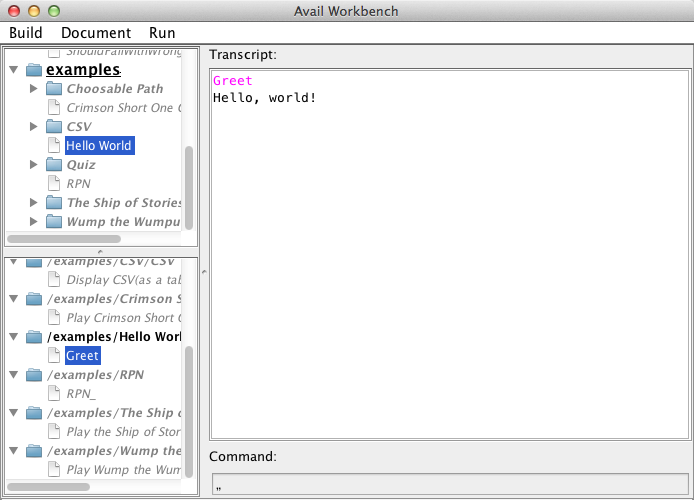
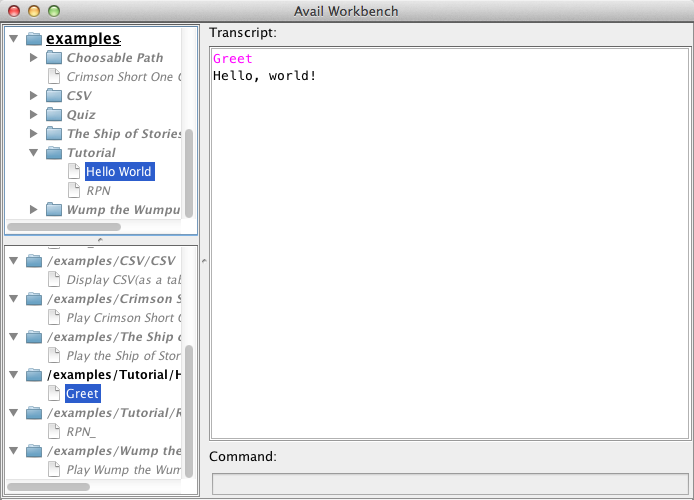
- Added a new tutorial, "Guess the Number". - Numerous updates and corrections.

Changed region(s): [[0.0, 0.03, 1.0, 0.54], [0.0605, 0.66, 0.2723, 0.81], [0.0908, 0.81, 0.2723, 0.87]]

diff --git a/about-avail/documentation/type-system/types-string.html b/about-avail/documentation/type-system/types-string.html
@@ -36,19 +36,19 @@ Like <a href="./types-extended-integer.html">integer</a> and <a href="./types-do
 When the escaped character is reverse solidus or quotation mark, then its special meaning as a metacharacter is disabled. So the string <code>"\\"</code> has a size of <code>1</code> and its only character is a reverse solidus, and the string <code>"\"Hello, Alice, this is Bob.\""</code> has a size of <code>28</code> and its first and last characters are quotation marks.
 </li>
 <li>
-When the escaped character is <code>t</code>, then the intended character is <em>character tabulation</em> <code class="unicode">(U+0009)</code>, also called <em>horizontal tab</em>. So the string <code>"\tIndented"</code> has a size of <code>9</code> and its first character is character tabulation.
+When the escaped character is <code>t</code> <code class="unicode">(U+0074)</code>, then the intended character is <em>character tabulation</em> <code class="unicode">(U+0009)</code>, also called <em>horizontal tab</em>. So the string <code>"\tIndented"</code> has a size of <code>9</code> and its first character is character tabulation.
 </li>
 <li>
-When the escaped character is <code>n</code>, then the intended character is <em>line feed</em> <code class="unicode">(U+000A)</code>. So the string <code>"Hello, world!\n"</code> has a size of <code>14</code> and its last character is a line feed.
+When the escaped character is <code>n</code> <code class="unicode">(U+006E)</code>, then the intended character is <em>line feed</em> <code class="unicode">(U+000A)</code>. So the string <code>"Hello, world!\n"</code> has a size of <code>14</code> and its last character is a line feed.
 </li>
 <li>
-When the escaped character is <code>r</code>, then the intended character is <em>carriage return</em> <code class="unicode">(U+000D)</code>. So the string <code>"Hello, world!\r"</code> has a size of <code>14</code> and its last character is a carriage return.
+When the escaped character is <code>r</code> <code class="unicode">(U+0072)</code>, then the intended character is <em>carriage return</em> <code class="unicode">(U+000D)</code>. So the string <code>"Hello, world!\r"</code> has a size of <code>14</code> and its last character is a carriage return.
 </li>
 <li>
-When the escaped character is <em>left parenthesis</em>, then the compiler expects a sequence of comma-separated hexadecimal numerals and finally a <em>right parenthesis</em>. Each hexadecimal numeral must denote an integral value from <code>0</code> to <code>10FFFF<sub>16</sub></code> (<code>1114111<sub>10</sub></code>); the case of the hexadecimal digits <code>A</code> through <code>F</code> does not matter. Each number represents the character associated with the Unicode code point of the same value. The construct as a whole then denotes a sequence of characters. So <code>"\(66, 6E, 6F, 72, 64, 21)!"</code> is the same string as <code>"fnord!!"</code> Because the Avail compiler is able to handle Unicode characters natively, there is scarcely need to use this facility outside of embedding invisible characters, such as control characters or special whitespace, into a string literal. In Avail, <code>"はじめまして。私の名前はスミス・トッドです。"</code> is a perfectly reasonable string literal — at least for the author!
+When the escaped character is <em>left parenthesis</em> <code>(</code> <code class="unicode">(U+0028)</code>, then the compiler expects a sequence of hexadecimal numerals separated by <em>commas</em> <code>,</code> <code class="unicode">(U+002C)</code> and finally a <em>right parenthesis</em> <code>)</code> <code class="unicode">(U+0029)</code>. Each hexadecimal numeral must denote an integral value from <code>0</code> to <code>10FFFF<sub>16</sub></code> (<code>1114111<sub>10</sub></code>); the case of the hexadecimal digits <code>A</code> through <code>F</code> does not matter. Each number represents the character associated with the Unicode code point of the same value. The construct as a whole then denotes a sequence of characters. So <code>"\(66, 6E, 6F, 72, 64, 21)!"</code> is the same string as <code>"fnord!!"</code> Because the Avail compiler is able to handle Unicode characters natively, there is scarcely need to use this facility outside of embedding invisible characters, such as control characters or special whitespace, into a string literal. In Avail, <code>"はじめまして。「スミス・トッド」と申します。"</code> is a perfectly reasonable string literal — at least for the author!
 </li>
 <li>
-When the escaped character is <em>line feed</em>, then the compiler elides the line feed altogether. This permits a string literal to span multiple lines without forcing its content to span multiple lines. Note that an occurrence of <em>carriage return</em> after the reverse solidus, or even the combination <em>carriage return</em>+<em>line feed</em>, is treated similarly; it is stripped from the resulting string.
+When the escaped character is <em>line feed</em> <code class="unicode">(U+000A)</code>, then the compiler elides the line feed altogether. This permits a string literal to span multiple lines without forcing its content to span multiple lines. Note that an occurrence of <em>carriage return</em> <code class="unicode">(U+000D)</code> after the reverse solidus, or even the combination <em>carriage return</em>+<em>line feed</em>, is treated similarly; it is stripped from the resulting string.
 <div class="restricted-width-container">
 <div class="good-code code-block">s ::= "Hello, \
 world!\n";
@@ -56,7 +56,7 @@ Assert: s = "Hello, world!\n";</div>
 </div>
 </li>
 <li>
-When the escaped character is <em>vertical line</em> <code class="unicode">(U+007C)</code>, then the compiler discards all whitespace from the beginning of the same line up to the reverse solidus. This region is not permitted to contain characters other than whitespace, in fact. This feature permits nice formatting of multiline string literals within source code, and is particularly powerful in conjunction with escaping of line feeds. Across several lines, the combination <code>\|</code> forms a visual wall that the string's content resides to the right of:
+When the escaped character is <em>vertical line</em> <code>|</code> <code class="unicode">(U+007C)</code>, then the compiler discards all whitespace from the beginning of the same line up to the reverse solidus. This region is not permitted to contain characters other than whitespace, in fact. This feature permits nice formatting of multiline string literals within source code, and is particularly powerful in conjunction with escaping of line feeds. Across several lines, the combination <code>\|</code> forms a visual wall that the string's content resides to the right of:
 <div class="restricted-width-container">
 <div class="good-code code-block">/* Obviously some liberties have been taken here… */
 If Abraham Lincoln is rallying the troops against vampires then

diff --git a/about-avail/documentation/type-system/types-boolean.html b/about-avail/documentation/type-system/types-boolean.html
@@ -23,28 +23,25 @@
 <iframe src="/_images/type-system/type-system-boolean-focus.svg" seamless></iframe>
 </div>
 <p>
-Rather than being a specialized type, <code>boolean</code> is simply the name given to the enumeration of the special <a href="./types-atom.html">atoms</a> <code>true</code> and <code>false</code>: <code>{true, false}ᵀ</code>. These atoms are defined and exported by the virtual machine for use by programmers. Every primitive interrogative method, such as <code>"_=_"</code> or <code>"_≤_"</code>, uses classical (Boolean) bivalence and obeys the three classical (Aristotelian) laws of thought.
+Rather than being a specialized type, <code>boolean</code> is simply the name given to the enumeration of the special <a href="./types-atom.html">atoms</a> <code>true</code> and <code>false</code>: <code>{true, false}ᵀ</code>. These atoms are defined and exported by the virtual machine for use by programmers. Every primitive interrogative method, such as <code>"_=_"</code> or <code>"_≤_"</code>, uses classical (Boolean) bivalence, and every stable primitive interrogative obeys the three classical (Aristotelian) laws of thought.
 </p>
 <p>
-Bivalent logic assigns either <code>true</code> or <code>false</code> as the unique truth value of every proposition. Every primitive interrogative method answers either <code>true</code> or <code>false</code> for a given set of arguments. Moreover, this answer is stable; invocation with the same arguments must always yield the same answer.
+Bivalent logic assigns either <code>true</code> or <code>false</code> as the unique truth value of every proposition. A primitive interrogative method is stable iff it reliably answers either <code>true</code> or <code>false</code> for a given set of arguments.
 </p>
 <p>
 The classical laws of thought are:
 </p>
 <ul>
 <li>
-The <strong>law of identity</strong>, that every proposition <code>P</code> implies itself: <code>P → P</code>. For every primitive interrogative method <code>"prim_,_"</code>, then <code>∀A,B : (prim A, B = prim A, B) = true</code>.
+The <strong>law of identity</strong>, that every proposition <code>P</code> implies itself: <code>P → P</code>. For every stable primitive interrogative method <code>"prim_,_"</code>, then <code>∀A,B : (prim A, B = prim A, B) = true</code>.
 </li>
 <li>
-The <strong>law of noncontradiction</strong>, that both a proposition <code>P</code> and its negation <code>¬P</code> are not mutually true: <code>¬(P ∧ ¬P)</code>. For every primitive interrogative method <code>"prim_,_"</code>, then <code>∀A,B : (prim A, B ∧ ¬prim A, B) = false</code>.
+The <strong>law of noncontradiction</strong>, that both a proposition <code>P</code> and its negation <code>¬P</code> are not mutually true: <code>¬(P ∧ ¬P)</code>. For every stable primitive interrogative method <code>"prim_,_"</code>, then <code>∀A,B : (prim A, B ∧ ¬prim A, B) = false</code>.
 </li>
 <li>
 The <strong>law of excluded middle</strong>, that either a proposition <code>P</code> or its negation <code>¬P</code> is uniquely true: <code>P ∨ ¬P</code>. For every primitive interrogative method <code>"prim_,_"</code>, then <code>∀A,B : ((prim A, B = true) ∨ (prim A, B = false)) = true</code>.
 </li>
 </ul>
-<p>
-Therefore the primitive interrogative methods satisfy classical logic.
-</p>
 <p>
 Remember that values may be instances of many types. This means that Avail directly supports other logical systems, such as Kleene's three-valued logic of indeterminacy, whose truth values are <code>true</code>, <code>false</code>, and <code>unknown</code>. Assuming the introduction of an atom to represent <code>unknown</code>, then <code>kleenean ≝ {true, false, unknown}ᵀ</code>. Clearly <code>kleenean</code> is a supertype of <code>boolean</code>, since <code>{true, false, unknown}ᵀ ⊇ {true, false}ᵀ</code>. New logical operations could be written in terms of <code>kleenean</code>, and preexisting logical operations defined to accept <code>boolean</code>s would automatically become specializations of these more general operations defined to accept <code>kleenean</code>s.
 </p>

diff --git a/about-avail/documentation/type-system/types-double.html b/about-avail/documentation/type-system/types-double.html
@@ -20,10 +20,10 @@
 
 		<h2 class="content-title"><code>double</code></h2>
 <p>
-A <strong>double</strong> — that is, an <a href="http://grouper.ieee.org/groups/754">IEEE 754</a> double-precision floating point number — is an approximation of a real number. The representation uses 32 binary digits, hereinafter <strong>bits</strong>, organized as 1 sign bit, 52 bits of mantissa, and 11 bits of exponent. The <strong>sign bit</strong> distinguishes positive (sign bit = 0) and negative (sign bit = 1) values. The <strong>mantissa</strong> encodes the significant binary digits of the number. The <strong>exponent</strong> scales the mantissa by a particular power of 2. Finite <code>double</code> values range from <code>-1.79769313486231570e+308</code> to <code>1.79769313486231570e+308</code>. The smallest nonzero <code>double</code> values are <code>±4.94065645841246544e-324</code>. Positive zero (<code>0.0</code>) are negative zero (<code>-0.0</code>) are considered distinct. Infinities are supported, but indicate an overflow of representational limits (rather than infinity). Some encodings do not represent real values; such a value is a <strong>not-a-number (NaN)</strong>. No two differing <code>NaN</code> encodings are considered equal. This is a departure from a strict interpretation of IEEE 754.
+A <strong>double</strong> — that is, an <a href="http://grouper.ieee.org/groups/754">IEEE 754</a> double-precision floating point number — is an approximation of a real number. The representation uses 64 binary digits, hereinafter <strong>bits</strong>, organized as 1 sign bit, 52 bits of mantissa, and 11 bits of exponent. The <strong>sign bit</strong> distinguishes positive (sign bit = 0) and negative (sign bit = 1) values. The <strong>mantissa</strong> encodes the significant binary digits of the number. The <strong>exponent</strong> scales the mantissa by a particular power of 2. Finite <code>double</code> values range from <code>-1.79769313486231570e+308</code> to <code>1.79769313486231570e+308</code>. The closest to zero nonzero <code>double</code> values are <code>±4.94065645841246544e-324</code>. Positive zero (<code>0.0</code>) and negative zero (<code>-0.0</code>) are considered distinct. Infinities are supported, but indicate an overflow of representational limits (rather than <code>±∞</code>). Some encodings do not represent real values; such a value is a <strong>not-a-number (NaN)</strong>. No two differing <code>NaN</code> encodings are considered equal. This is a departure from a strict interpretation of IEEE 754.
 </p>
 <p>
-In Avail, a literal double begins with one or more decimal digits, contains a <em>full stop</em> <code>.</code> <code class="unicode">(U+002E)</code> and fractional part, and optionally ends with exponential notation — an <code>E</code> or <code>e</code> followed by one or more decimal digits. Examples include <code>1.0</code>, <code>0.1</code>, <code>0.0025</code>, <code>2.5E-3</code>, <code>2500.0</code>, <code>2.5E3</code>, and <code>3.141592653589793</code>.
+In Avail, a literal double begins with one or more decimal digits, contains a <em>full stop</em> <code>.</code> <code class="unicode">(U+002E)</code> and fractional part, and optionally ends with exponential notation — an <code>E</code> <code class="unicode">(U+0045)</code>or <code>e</code> <code class="unicode">(U+0065)</code>followed by one or more decimal digits. Examples include <code>1.0</code>, <code>0.1</code>, <code>0.0025</code>, <code>2.5E-3</code>, <code>2500.0</code>, <code>2.5E3</code>, and <code>3.141592653589793</code>.
 </p>
 <p>
 Though <code>double</code> numerically subsumes <code><a href="/about-avail/documentation/type-system/types-float.html">float</a></code>, they are considered siblings because their values differ by internal representation. <code>double</code> is not a supertype of <code>float</code>. No <code>float</code> value is also a <code>double</code> value, and no <code>double</code> value is also a <code>float</code> value.

diff --git a/about-avail/learn/tutorials/hello-world.html b/about-avail/learn/tutorials/hello-world.html
@@ -89,7 +89,7 @@ Method "Greet" is [ Print: "Hello, world!\n"; ];
 
 <p>A place in the source code where a method is used is termed a <strong>call site</strong>. At the call site of <code>"Method_is_"</code> on <strong>line 38</strong>, the actual arguments are <code>"Greet"</code> and <code>[Print: "Hello, world!\n";]</code>. So the new method will be called <code class="command">"Greet"</code>, which is what we expect.</p>
 
-<p>But what will the new method do? You've probably already figured this out, even if you haven't worked out the details: the new <code class="command">"Greet"</code> method will print <code>"Hello, world!\n"</code>. The <em>square brackets</em> &mdash; <code>[</code> <code class="unicode">(U+005B)</code> and <code>]</code> <code class="unicode">(U+005D)</code> &mdash; delimit a <code>function</code>. The contents of the square brackets are the <strong>function body</strong>, i.e., the code that the function executes when it is <strong>applied</strong> (or <strong>called</strong> or <strong>invoked</strong>). In this case, the code comprises a single <strong>statement</strong>: <code>Print: "Hello, world!\n";</code>. Every statement ends with a <em>semicolon</em> <code>;</code> <code class="unicode">(U+003B)</code>, and must produce a <strong>side effect</strong> like defining a new method or printing something.</p>
+<p>But what will the new method do? You've probably already figured this out, even if you haven't worked out the details: the new <code class="command">"Greet"</code> method will print <code>"Hello, world!\n"</code>. The <em>square brackets</em> &mdash; <code>[</code> <code class="unicode">(U+005B)</code> and <code>]</code> <code class="unicode">(U+005D)</code> &mdash; delimit a <code>function</code>. The contents of the square brackets are the <strong>function body</strong>, i.e., the code that the function executes when it is <strong>applied</strong> (or <strong>called</strong> or <strong>invoked</strong>). In this case, the code comprises a single <strong>statement</strong>: <code>Print: "Hello, world!\n";</code>. Every statement ends with a <em>semicolon</em> <code>;</code> <code class="unicode">(U+003B)</code>, and must produce a <strong>side effect</strong>. A side effect is an observable consequence, like defining a new method or printing something.</p>
 
 <p>The standard library exports a method named <code>"Print:_"</code> — pronounced <em>print blank</em> — which accepts a <code>string</code> that should be printed immediately to the standard output stream. At our call site, this argument is <code>"Hello, world!\n"</code>. Harking back to a tradition of many other programming languages, the <strong>escape sequence</strong> <code>\n</code> represents a line feed.</p>
 

diff --git a/about-avail/documentation/type-system/types-float.html b/about-avail/documentation/type-system/types-float.html
@@ -20,7 +20,7 @@
 
 		<h2 class="content-title"><code>float</code></h2>
 <p>
-A <strong>float</strong> — that is, an <a href="http://grouper.ieee.org/groups/754">IEEE 754</a> single-precision floating point number — is an approximation of a real number. The representation uses 32 bits, organized as 1 sign bit, 23 bits of mantissa, and 8 bits of exponent. Finite <code>float</code> values range from <code>-3.40282347e+38</code> to <code>3.40282347e+38</code>. The smallest nonzero <code>float</code> values are <code>±1.40239846e-45</code>. Positive zero (<code>0.0</code>) are negative zero (<code>-0.0</code>) are considered distinct. Infinities are supported, but indicate an overflow of representational limits (rather than infinity). Some values are <code>NaN</code>s. No two differing <code>NaN</code> encodings are considered equal.
+A <strong>float</strong> — that is, an <a href="http://grouper.ieee.org/groups/754">IEEE 754</a> single-precision floating point number — is an approximation of a real number. The representation uses 32 bits, organized as 1 sign bit, 23 bits of mantissa, and 8 bits of exponent. Finite <code>float</code> values range from <code>-3.40282347e+38</code> to <code>3.40282347e+38</code>. The closest to zero nonzero <code>float</code> values are <code>±1.40239846e-45</code>. Positive zero (<code>0.0</code>) and negative zero (<code>-0.0</code>) are considered distinct. Infinities are supported, but indicate an overflow of representational limits (rather than <code>±∞</code>). Some values are <code>NaN</code>s. No two differing <code>NaN</code> encodings are considered equal.
 </p>
 <p>
 The <code>float</code> type is provided only for interoperation with the <a href="http://www.java.com">Java</a> programming language. Use of <code>float</code> values is generally discouraged; prefer <code><a href="./types-double.html">double</a></code> values whenever possible. There is no syntax for specifying a literal float. Instead, use the method <code>"_→float"</code> to convert a <code>double</code> value to a <code>float</code> value.

diff --git a/about-avail/documentation/type-system/types-set.html b/about-avail/documentation/type-system/types-set.html
@@ -43,7 +43,7 @@ A <strong>set</strong> is an immutable, finite, unordered collection of distinct
 </li>
 </ul>
 <p>
-A literal set is expressed as a <em>left curly bracket</em> <code>{</code> <code class="unicode">(U+007B)</code>, then a comma-separated list of members, and finally a <em>right curly bracket</em> <code>}</code> <code class="unicode">(U+007D)</code>. Examples of sets include <code>{7}</code>, <code>{"Gnaeus Pompeius Magnus", "Gaius Julius Caesar", "Marcus Licinius Crassus"}</code>, and <code>{"Leaping", ¢a, 10, "Lords"}</code>. The members are ordered atypically to emphasize the unordered nature of sets. The empty set is written as <code>∅</code> <code class="unicode">(U+2205)</code>.
+A literal set is expressed as a <em>left curly bracket</em> <code>{</code> <code class="unicode">(U+007B)</code>, then a list of members separated by <em>commas</em> <code>,</code> (<code class="unicode">U+002C</code>), and finally a <em>right curly bracket</em> <code>}</code> <code class="unicode">(U+007D)</code>. Examples of sets include <code>{7}</code>, <code>{"Gnaeus Pompeius Magnus", "Gaius Julius Caesar", "Marcus Licinius Crassus"}</code>, and <code>{"Leaping", ¢a, 10, "Lords"}</code>. The members are ordered atypically to emphasize the unordered nature of sets. The empty set is written as <code>∅</code> <code class="unicode">(U+2205)</code>.
 </p>
 <p>
 The elements of a set need not be known statically. Sets are constructed with the method <code>"{«_‡,»}"</code>; there is no special built-in syntax for constructing sets. When the compiler can <a href="./type-inference.html">infer</a> an instance type for each argument expression of a particular send of this message, then the semantic restriction is able to strengthen the result to an instance type, thereby according it the same force as a literal understood primitively by the compiler.

diff --git a/about-avail/documentation/type-system/types-tuple.html b/about-avail/documentation/type-system/types-tuple.html
@@ -43,7 +43,7 @@ A <strong>tuple</strong> is an immutable, finite, ordered list of indexable, het
 </li>
 </ul>
 <p>
-A literal tuple is expressed as a <em>less-than sign</em> <code>&lt;</code> <code class="unicode">(U+003C)</code>, then a comma-separated list of elements, and finally a <em>greater-than sign</em> <code>&gt;</code> <code class="unicode">(U+003E)</code>. Examples of tuples include <code>&lt;1&gt;</code>, <code>&lt;"Moe", "Larry", "Shemp", "Curly", "Joe", "Joe"&gt;</code>, <code>&lt;[1 + 3], [x : integer | x + 3]&gt;</code>, and <code>&lt;2, "radish", ¢=, &lt;"hey", "nonny", "nonny"&gt;&gt;</code>. The empty tuple is written as <code>&lt;&gt;</code>.
+A literal tuple is expressed as a <em>less-than sign</em> <code>&lt;</code> <code class="unicode">(U+003C)</code>, then a list of elements separated by <em>commas</em> <code>,</code> (<code class="unicode">U+002C</code>), and finally a <em>greater-than sign</em> <code>&gt;</code> <code class="unicode">(U+003E)</code>. Examples of tuples include <code>&lt;1&gt;</code>, <code>&lt;"Moe", "Larry", "Shemp", "Curly", "Joe", "Joe"&gt;</code>, <code>&lt;[1 + 3], [x : integer | x + 3]&gt;</code>, and <code>&lt;2, "radish", ¢=, &lt;"hey", "nonny", "nonny"&gt;&gt;</code>. The empty tuple is written as <code>&lt;&gt;</code>.
 </p>
 <p>
 The elements of a tuple need not be statically well-known as they are in the above examples. Tuples are built with the method <code>"&lt;«_‡,»&gt;"</code>, and not through special syntax hardwired into the compiler. When the compiler is able to <a href="./type-inference.html">infer</a> an instance type for each argument expression of a particular send of this message, then the semantic restriction is able to strengthen the result to an instance type, thereby giving it the same force as a literal understood primitively by the compiler.

diff --git a/about-avail/learn/tutorials/rpn.html b/about-avail/learn/tutorials/rpn.html
@@ -30,13 +30,13 @@
 
 <p>As a bonus, our RPN domain-specific language (DSL) interoperates directly with regular Avail code. Securing the same bonus in a traditional programming language involves rebuilding its parser, thereby causing it to no longer be the original language. Avail, on the other hand, is designed to sail the <a href="http://en.wikipedia.org/wiki/Ship_of_theseus">ship of Theseus</a> all the way home.</p>
 
-<p>Building and running the program should look something like this:</p>
+<p>Running the program should look something like this:</p>
 
 <img src="/_images/examples/rpn/transcript.png" alt="A sample transcript of using &quot;RPN_&quot;."/>
 
 <h3><a id="Prerequisites">Prerequisites</a></h3>
 <ul>
-<li>Understand the material presented in the <a href="./hello-world.html"><code>"Hello, world!"</code> tutorial</a>.</li>
+<li>Understand the material presented in the previous tutorials.</li>
 </ul>
 
 <h3><a id="Goals">Goals</a></h3>
@@ -146,7 +146,8 @@ Method "RPN_" is
 		<td class="book-nav-back"><a class="book-nav-back" href="./hello-world.html">‹ Hello, world!</a></td>
 		<td class="book-nav-spacer">|</td>
 		<td class="book-nav-up"><a class="book-nav-up" href="../index.html">Return to Learn</a></td>
-	</tr>
+		<td class="book-nav-spacer">|</td>
+		<td class="book-nav-forward"><a class="book-nav-forward" href="./guess-the-number.html">Guess the number ›</a></td></tr>
 </table>
 
 <!--#include virtual="/_include/body-bottom.ssi" -->

diff --git a/about-avail/learn/index.html b/about-avail/learn/index.html
@@ -42,6 +42,7 @@
 <ul>
 <li><code><a href="./tutorials/hello-world.html">"Hello, world!"</a></code>: Inspired by the many such programs that have been written since the 1967 BCPL progenitor, this archetypal and obligatory introduction demonstrates how a bright-eyed programmer can greet the entire world with just a few lines of code. (N.B.: This does not actually greet the entire world, which would be quite spooky and odd. Do not fear.)</li>
 <li><code><a href="./tutorials/rpn.html">Reverse Polish Notation</a></code>: Discover how to build a Reverse Polish notation expression language <em>without writing a parser, expression nodes, operand stack, or interpreter</em>. This is a great computer science classic, except for the part where you're done coding it in three minutes.</li>
+<li><code><a href="./tutorials/guess-the-number.html">Guess the number</a></code>: Guess a number within a particular range. This is another classic, and your first <em>real</em> exercise in Avail programming.</li>
 </ul>
 
 <!--#include virtual="/_include/body-bottom.ssi" -->

diff --git a/about-avail/documentation/type-system/types-extended-integer.html b/about-avail/documentation/type-system/types-extended-integer.html
@@ -23,6 +23,9 @@
 <iframe src="/_images/type-system/type-system-extended-integer-focus.svg" seamless></iframe>
 </div>
 <p>
+An <strong>integer</strong> is a discrete number, i.e., it has no fractional part. As such, integers are excellent for counting and labeling.
+</p>
+<p>
 The literal representation of an integer is a sequence of one or more decimal digits, such as <code>0</code>, <code>1</code>, <code>200</code>, <code>50000</code>, or <code>598798234908600912387587829348623580980827481650893468592374832569783</code>. Negative integer literals are created using the method <code>"-_"</code>, which defines a <a href="./semantic-restrictions.html">semantic restriction</a> that strengthens the answer's type to an instance type whenever the argument's value is precisely known, as is the case for <code>-1</code> or <code>-42</code>. <code>∞</code> and <code>-∞</code> are positive and negative infinity, respectively. 
 </p>
 <p>
